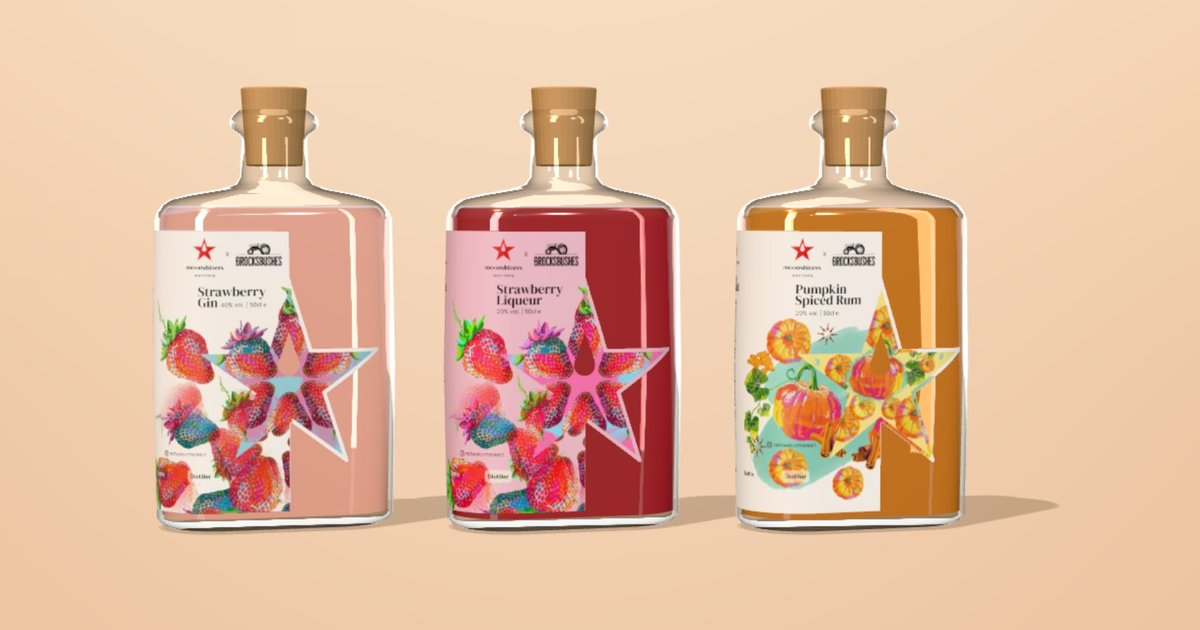
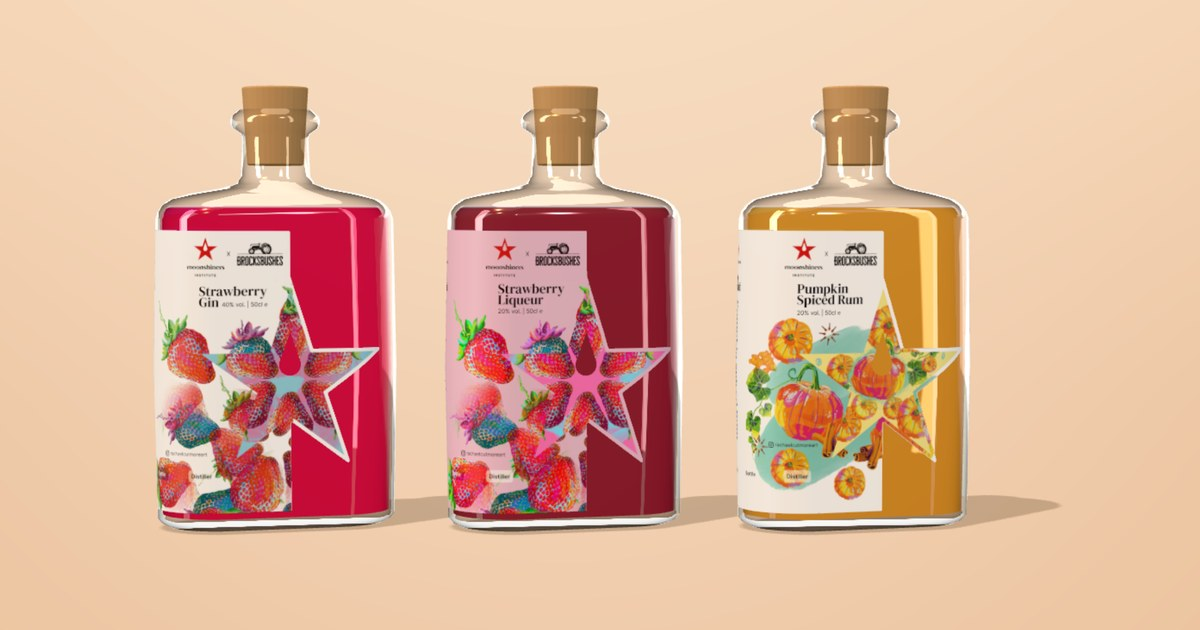
polish: loader flask and share image in the gin's new colour
The loader's flask fills with the gin's crimson rather than the old pale
pink, and the share image is re-rendered with the retuned liquids,
framed as before.

diff --git a/components/field-to-still/FieldToStill.tsx b/components/field-to-still/FieldToStill.tsx
@@ -224,7 +224,7 @@ function Loader({ progress, ready }: { progress: number; ready: boolean }) {
           <g className='transition-transform duration-700 ease-out' style={{ transform: `translateY(${level}px)` }}>
             <path
               d='M0 0Q25 -3.5 50 0T100 0T150 0T200 0T250 0T300 0V130H0Z'
-              fill='#d9536a'
+              fill='#ce1644'
               fillOpacity={0.85}
               className='motion-safe:animate-[loader-wave_2.4s_linear_infinite]'
             />
